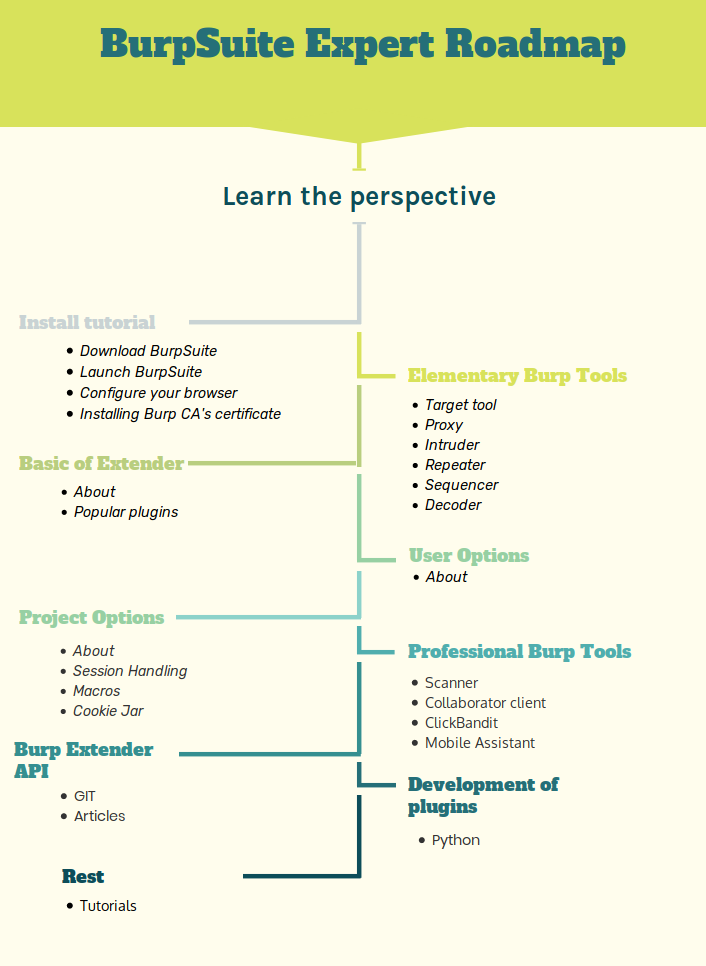
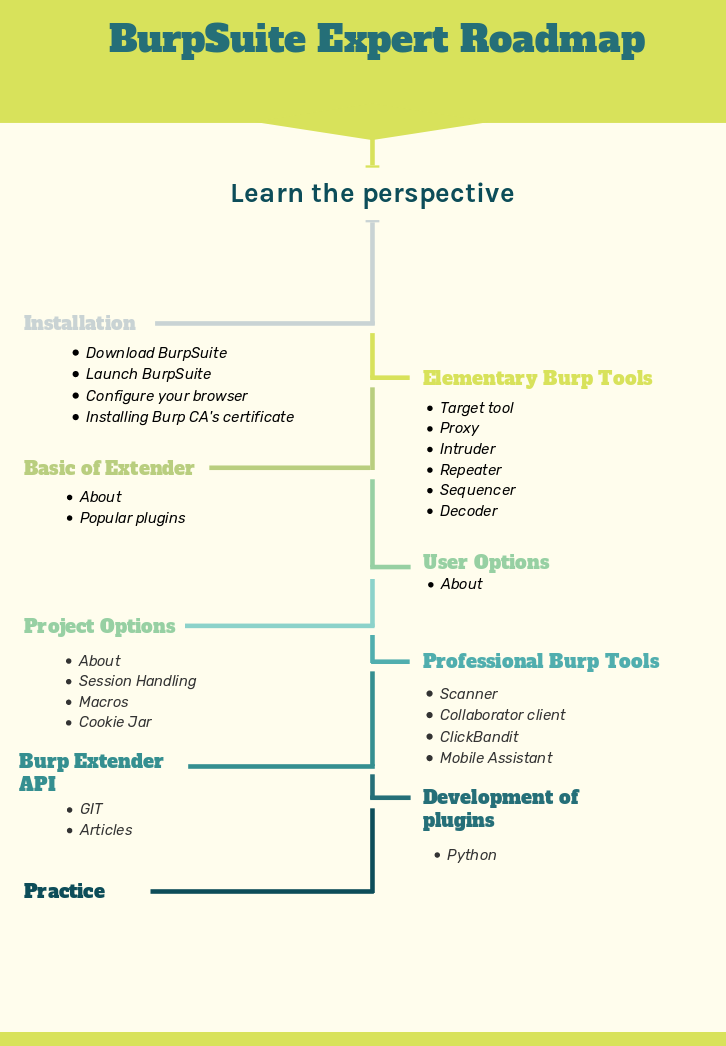
Update roadmap

Changed region(s): [[0.0, 0.0932, 1.0, 0.9317], [0.0, 0.9006, 1.0, 1.0], [0.1246, 0.0, 0.9037, 0.0621]]

diff --git a/roadmap.md b/roadmap.md
@@ -2,12 +2,11 @@
 
 ![RoadMap](./roadmap.png)
 
-## Install tutorial:
+## Installation:
 - [Download BurpSuite](https://support.portswigger.net/customer/en/portal/articles/2327557-downloading-burp-software-and-your-license-key)
 - [Launch BurpSuite](https://support.portswigger.net/customer/portal/articles/1783038-Installing_Launching%20Burp.html)
 - [Configure Browser](https://support.portswigger.net/customer/portal/articles/1783055-configuring-your-browser-to-work-with-burp)
 - [Installing Burp's CA Certificate in your browser](https://support.portswigger.net/customer/portal/articles/1783075-installing-burp-s-ca-certificate-in-your-browser) 
-
 
 ## Elementary Burp Tools
 ### Tools
@@ -18,8 +17,10 @@
 - [Sequencer](https://portswigger.net/burp/documentation/desktop/tools/sequencer)
 - [Decoder](https://portswigger.net/burp/documentation/desktop/tools/decoder)
 ### Articles
-- [In Russian](https://losst.ru/kak-polzovatsya-burp-suite#2_1048108910871086108311001079108610741072108510801077nbspIntruder)
-___
+- [Basic Tools](https://www.computerweekly.com/tutorial/Burp-Suite-Guide-Part-I-Basic-tools)
+- [Tool kit](https://securitytraning.com/burp-suite-tutorial/)
+- [Overview of BurpSuite(rus)](https://habr.com/en/post/328382/)
+- [Usage of BurpSuite(rus)](https://losst.ru/kak-polzovatsya-burp-suite#2_1048108910871086108311001079108610741072108510801077nbspIntruder)
 
 ## Basic of Burp Extender
 - [About](https://portswigger.net/burp/documentation/desktop/tools/extender)
@@ -27,8 +28,10 @@ ___
 - Popular plugins:
     + https://github.com/Hack-with-Github/Powerful-Plugins/blob/master/Burp.md
     + https://github.com/AdrianCitu/burp-tabnabbing-extension
-    +
-
+    + https://github.com/InitRoot/BurpJSLinkFinder
+    + https://github.com/wish-i-was/femida
+    + https://github.com/pinnace/burp-jwt-fuzzhelper-extension
+    + https://github.com/ettic-team/EndpointFinder-Burp
 
 ## User Options
 - [About](https://portswigger.net/burp/documentation/desktop/options)
@@ -52,8 +55,8 @@ ___
 ### Articles
 - [Collaborator in Amazon AWS](https://www.nuharborsecurity.com/creating-a-private-burp-collaborator-in-amazon-aws-with-a-letsencrypt-wildcard-certificate/)
 - [Usage of ClickBandit](https://www.hackingarticles.in/advance-web-application-testing-using-burpsuite/)
-- [!]()
-___
+- [HandyCollaborator](https://github.com/federicodotta/HandyCollaborator)
+- [Scanning vulnerability with Burpsuite](https://www.youtube.com/watch?v=1Ns9waAkHQ4)
 
 ## Burp Extender API
 - [Git](https://github.com/PortSwigger/burp-extender-api)
@@ -65,11 +68,21 @@ ___
 - [Example](https://laconicwolf.com/2019/02/07/burp-extension-python-tutorial-encode-decode-hash/)
 
 
+## Practice
+- [Try to repeat examples](https://support.portswigger.net/customer/portal/articles/2326039-the-burp-methodology-)
+- In order to practice attacking vulnerabilities using BurpSuite try to complete all tasks on [DVWA](http://www.dvwa.co.uk/).
+
 ## Rest
 - ### Tutorials
     + [Tutorial 1](https://www.pentestgeek.com/web-applications/burp-suite-tutorial-1)
     + [Cycle of notes](https://jaimelightfoot.com/blog/burp-suite-for-beginners-setup-and-target-proxy-tools/)
     + [Tutorial in Russian](https://habr.com/en/post/328382/)
     + [Tutorial 2](https://codegrazer.com/tutorial/burp-tutorial-beginner.html)
--    https://habr.com/en/post/328382/
--    https://losst.ru/kak-polzovatsya-burp-suite#2_1048108910871086108311001079108610741072108510801077nbspIntruder
+    + [Cycle of Video Tutorials](https://vimeo.com/showcase/3510171)
+    + [HackerOne: Getting started with Burp](https://www.youtube.com/watch?v=LSqC9qgEMi0)
+    + [HackerOne: Maximizing Burp](https://www.youtube.com/watch?v=bHTxJIC_jGI)
+    + [HackerOne: Burp Hacks for Bounty Hackers](https://www.youtube.com/watch?v=bHTxJIC_jGI)
+    
+- ### Community
+    + [Telegram](https://web.telegram.org/#/im?p=@burpsuite)
+
